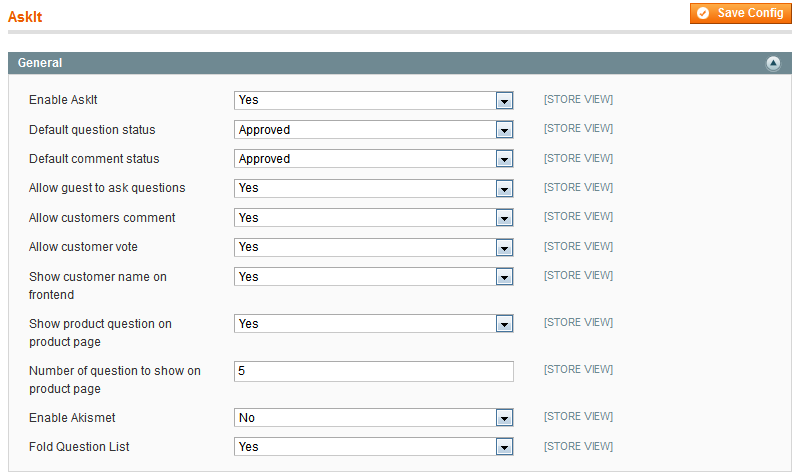
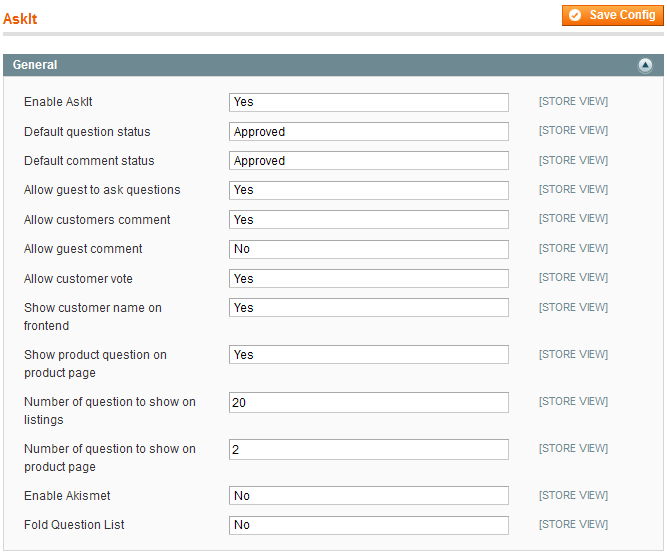
AskIt manual added

diff --git a/m1/extensions/askit/use-cases.md b/m1/extensions/askit/use-cases.md
@@ -12,3 +12,82 @@ category: AskIt
 -   [How to place discussion block on CMS page](#how-to-place-discussion-block-on-cms-page)
 -   [How to place discussion block on categories pages](#how-to-place-discussion-block-on-categories-pages)
 -   [Using code for changing location of discussion block with layout XML file](#using-code-for-changing-location-of-discussion-block-with-layout-xml-file)
+
+___
+
+### How to place discussion block on CMS page
+
+![CMS Discussion](/images/m1/extensions/askit/askit9.png)
+
+Please go to `Admin > CMS > Pages`. After you configured the **Page information** tab,
+follow next steps:
+
+1.  At **Information** tab select **Content fieldset**.
+2.  Press **Insert Widget** button.
+3.  Select **Recently Askit discussion** from drop down list.
+    ![Widget](/images/m1/extensions/askit/askit8.png)
+4.  Click on **Insert Widget**.
+5.  Click **Save Page** at the upper right corner of the page.
+
+![Widget](/images/m1/extensions/askit/askit10.png)
+
+You will have `Item Type` - **Page** in `Admin > Templates Master > Askit Questions`
+and the **name** of your CMS page in **Item** _(i.e. About Us)_.
+
+### How to place discussion block on categories pages
+
+![Category](/images/m1/extensions/askit/askit12.png)
+
+-   Please go to `Admin > CMS` and create **static block**. Then we recommend to place
+    **Askit discussion** widget into the **CMS static block**.
+
+    ![Widget](/images/m1/extensions/askit/askit8.png)
+
+-   For example we can name it _"categoriesdiscussion"_. After that please go to
+    `Admin > Catalog > Manage Categories`.
+-   Click on **Display Settings** tab and in the **CMS Block field** select **static block**
+    with categories, that you have created before.
+
+    ![Widget](/images/m1/extensions/askit/askit11.png)
+
+### Using code for changing location of discussion block with layout XML file
+
+In order to change, please connect to **FTP** server and find **Magento** files.
+Then follow the `app/design/frontend/base/default/layout/tm/askit.xml`.
+Open file to be edited.Search `<catalog_product_view>`
+branch and make changes in **reference** name.
+
+-   One way is for default **Magento** layout:
+
+    ```xml
+     <reference name="product.info.additional">
+        <block type="askit/discussion" name="askit" template="tm/askit/empty.phtml" before="-" >
+            <action method="setTemplate" ifconfig="askit/general/productBlockView">
+                <template>tm/askit/list.phtml</template>
+            </action>
+        </block>
+    </reference>
+    ```
+
+-   Other way is for **product tabs**:
+
+    ```xml
+    <reference name="product.info.tabs">
+        <action method="addTab" translate="title" module="askit" ifconfig="askit/general/enabled">
+            <alias>askit_tabbed</alias>
+            <title>Questions</title>
+            <block>askit/list</block>
+            <template>tm/askit/list.phtml</template>
+        </action>
+    </reference>
+    ```
+
+___
+
+#### You can also check:
+
+*   [Installation](../installation/)
+*   [General configurable options](../general-configurable-options/)
+*   [Admin interfaces](../admin-interfaces/)
+*   [Support](https://swissuplabs.com/contacts/)
+*   [Forum](https://swissuplabs.com/magento-forum/)

diff --git a/m1/extensions/askit/general-configurable-options.md b/m1/extensions/askit/general-configurable-options.md
@@ -10,7 +10,7 @@ category: AskIt
 # AskIt General Configurable options
 
 In order to configure the main features of the extension, please go
-to `Admin > System > Configuration > Askit`.
+to `Admin > System > Configuration > Templates-Master > Askit`.
 
 -   [General tab](#general-tab)
 -   [Email tab](#email-tab)
@@ -33,7 +33,6 @@ and duscussions.
     **Disapproved** and **Close**.
 
     _**Note:** only Approved questions customers will see on frontend._
-
 -   `Default comment status` - please select default status for comment displayed
     on frontend from drop down list. Possible values are **Pending**, **Approved**
     and **Disapproved**.
@@ -44,12 +43,55 @@ and duscussions.
 -   `Allow customer vote` - select **Yes** to allow customers vote for questions.
 -   `Show customer name on frontend` - select **Yes** to allow the display of
     customer name on frontend.
-
 -   `Show product question on product page` - select **Yes** to display the
     question on the product page.
 -   `Show customer name on frontend` - select **Yes** to allow the display of
     customer name on frontend.
+-   `Number of questions to show on listings` - specify the number of questions
+    to be displayed on the listing page.
 -   `Number of questions to show on product page` - specify the number of questions
     to be displayed on the product page.
 -   `Enable Akismet` - select **Yes** to enable **Akismet**.
 -   `Fold question list` - select **Yes** to apply fold list on the **Questions tab**.
+
+### Email tab
+
+**Email tab** settings will help you to answer new questions in shortest time.
+That will be provided by creating **email notification** for customer personally
+and for admin.
+
+![Email settings](/images/m1/extensions/askit/askit3.png)
+
+-   `Enable customer notification` - select **Yes** to send email notification about the
+    discussion personally to **customer**.
+-   `Enable admin notification` - select **Yes** to send email notification about the
+    discussion personally to **admin**.
+-   `Send admin notification` - please specify the **admin address** whom the
+    notification will be send to.
+-   `Transport` - email **provider** to send emails.
+-   `Queue` - select the **queue** for email sending.
+-   `Email sender` - select **email sender** from drop down list.
+-   `Email template (admin notification)` - please select email notification
+    template to **admin**.
+-   `Email template (customer notification`) - please select email notification
+    template to **customer**.
+
+### RSS feed tab
+
+Settings mentioned below will help your customers be in touch using **RSS feed**.
+
+![RSS settings](/images/m1/extensions/askit/askit4.png)
+
+-   Select **Yes** to enable **RSS feed**. This way you will allow your customer
+    to subscribe on discussion using **RSS feed**.
+-   `RSS Feed title` - please specify the title for such information.
+
+___
+
+#### You can also check:
+
+*   [Installation](../installation/)
+*   [Admin interfaces](../admin-interfaces/)
+*   [Use Cases](../use-cases/)
+*   [Support](https://swissuplabs.com/contacts/)
+*   [Forum](https://swissuplabs.com/magento-forum/)

diff --git a/m1/extensions/askit/admin-interfaces.md b/m1/extensions/askit/admin-interfaces.md
@@ -22,3 +22,42 @@ To configure the main settings, please follow our recommendations.
 
 -   [General fieldset](#general-fieldset)
 -   [Answers fieldset](#answers-fieldset)
+
+___
+
+![AskIt grid](/images/m1/extensions/askit/askit5.png)
+
+### General fieldset
+
+![General](/images/m1/extensions/askit/askit6.png)
+
+-   `Text` - please specify your **question**.
+-   `Hint` - specify the weight of the question in the Hint field.
+-   `Customer` - the customer’s name is already set.
+-   `Item type` - the item's **type** is already set.
+-   `Item name` - the item's **name** is already set.
+-   `Store view` - show **store view** where that question was posted at. In case you are
+    using multi language environment it will help you better understand what
+    language you should use to place answer or comment.
+-   `Email` - the customer **email** is already set.
+-   `Status` - select from drop down list the **current status** of the question.
+-   `Private` - select **private** or **public** question status.
+-   `Create date` - please specify the **date** of question creation.
+
+
+### Answers fieldset
+
+![Answer](/images/m1/extensions/askit/askit7.png)
+
+Please type your **answer** in the Text field. Press **Add answer** button.
+And at the very end click **Save Question** at the right upper corner of the page.
+
+___
+
+#### You can also check:
+
+*   [Installation](../installation/)
+*   [General configurable options](../general-configurable-options/)
+*   [Use Cases](../use-cases/)
+*   [Support](https://swissuplabs.com/contacts/)
+*   [Forum](https://swissuplabs.com/magento-forum/)

diff --git a/m1/extensions/askit/installation.md b/m1/extensions/askit/installation.md
@@ -33,8 +33,12 @@ block.
 
 That's all. Navigate to your store and check how it looks.
 
+___
+
 #### After you install an extension you can go to:
 
-* [Support](https://swissuplabs.com/contacts/)
-* [Forum](https://swissuplabs.com/magento-forum/)
-
+*   [General configurable options](../general-configurable-options/)
+*   [Admin interfaces](../admin-interfaces/)
+*   [Use Cases](../use-cases/)
+*   [Support](https://swissuplabs.com/contacts/)
+*   [Forum](https://swissuplabs.com/magento-forum/)

diff --git a/m1/extensions/askit/index.md b/m1/extensions/askit/index.md
@@ -9,6 +9,8 @@ category: AskIt
 
 # AskIt
 
+![Talk](/images/m1/extensions/askit/talk.png)
+
 **Ask It** is most powerful **Magento** products questions extension, that allows
 to create the discussion on the product page, CMS pages and even on the categories
 pages. The display of recently discussion block at any place of your store leads
